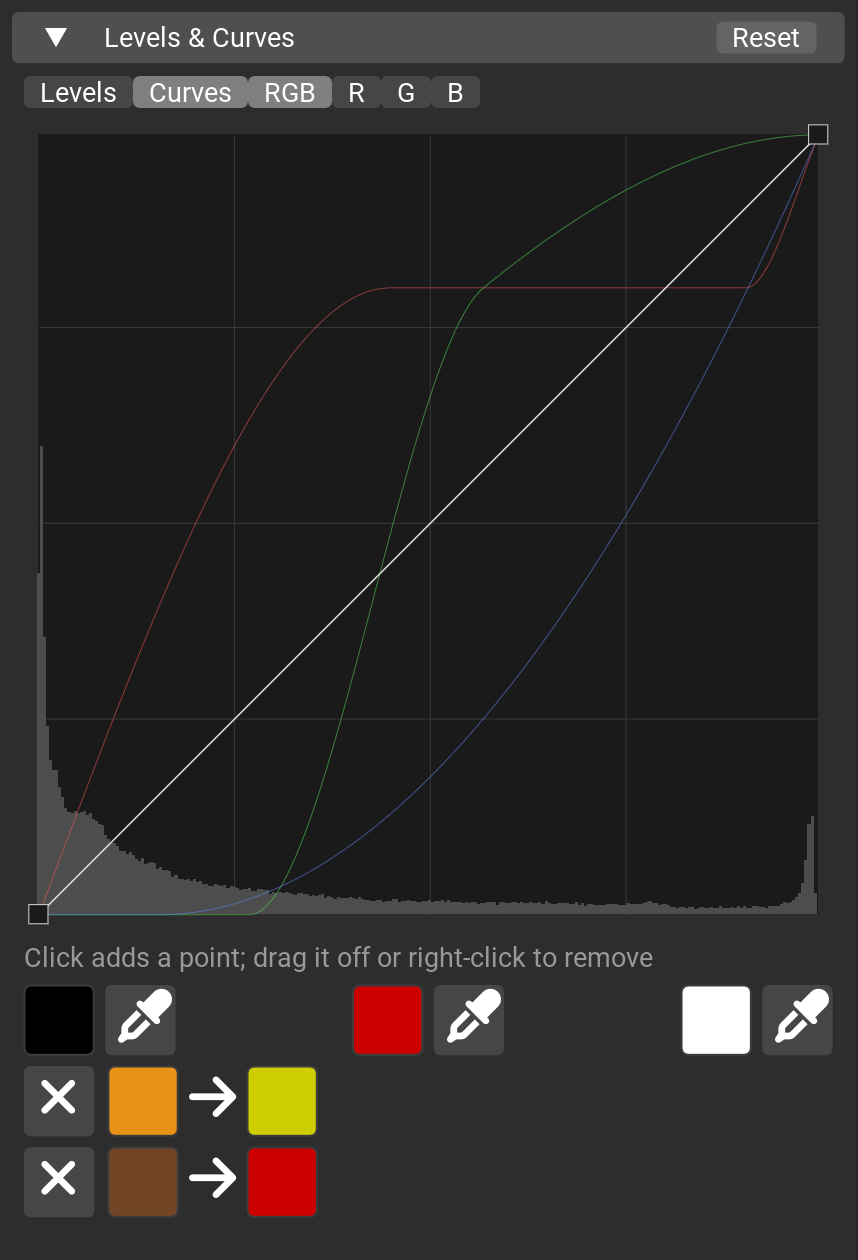
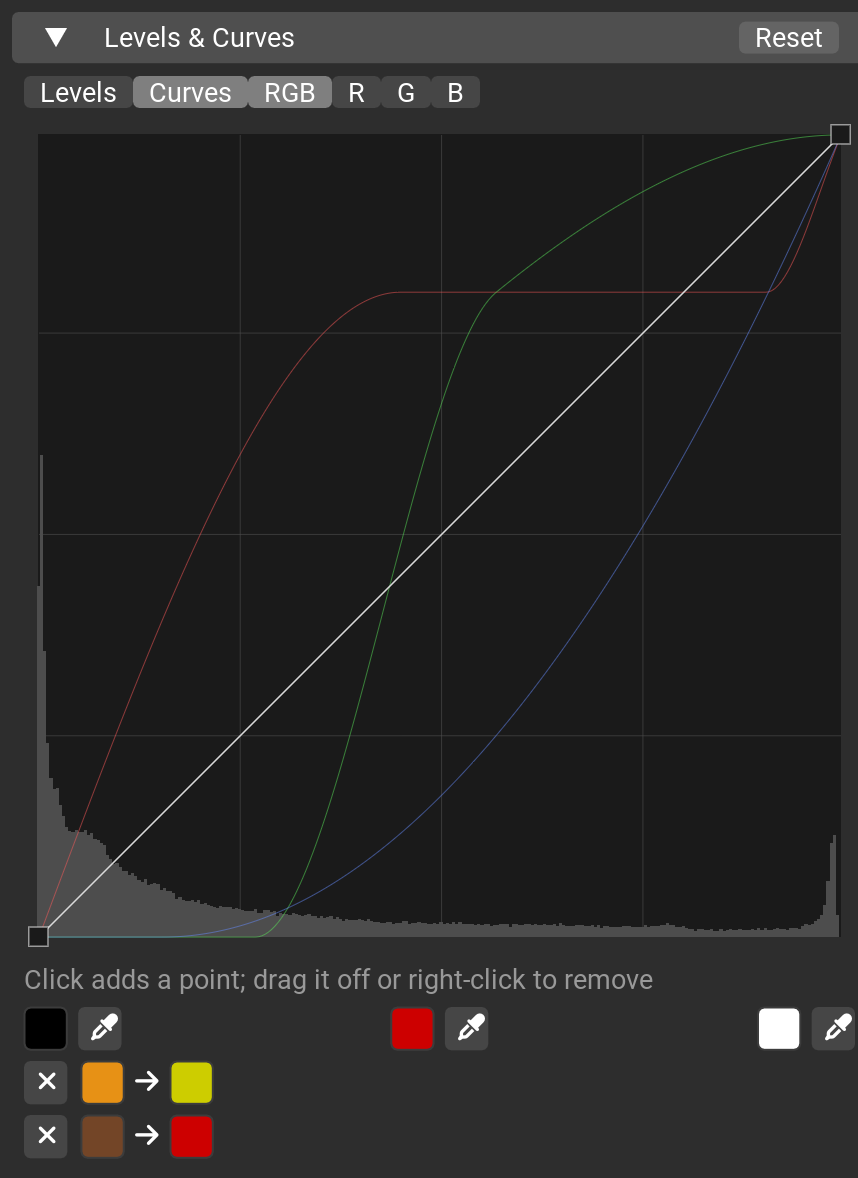
Eyedropper rows and style.font at their size on a scaled screen (#31)
imgui 1.92's push_font takes an unscaled size and applies the style's main and DPI scales to it; em_size has them in
it already, so at a DPI factor of 2 (a Windows screen at 200%, the docs' screenshots) the eyedropper rows came out at
twice their size. style.font_size(em) gives push_font's size; smaller(), tip() and style.font use it. The Levels &
Curves picture retaken.

Claude-Session: https://claude.ai/code/session_01LD28UwYSy5EQZZBPjBZYX9

diff --git a/src/dizher/ui/levels.py b/src/dizher/ui/levels.py
@@ -68,8 +68,8 @@ _full = []   # the font size outside smaller(), for tooltips inside it
 def smaller():
     """Items at SCALE: the font and the paddings and spacings, so frame-high swatches and buttons shrink along."""
     st = imgui.get_style()
-    _full.append(em_size(1.0))
-    imgui.push_font(None, em_size(SCALE))
+    _full.append(style.font_size(1.0))
+    imgui.push_font(None, style.font_size(SCALE))
     for var, v in ((imgui.StyleVar_.frame_padding, st.frame_padding), (imgui.StyleVar_.item_spacing, st.item_spacing),
                    (imgui.StyleVar_.item_inner_spacing, st.item_inner_spacing)):
         imgui.push_style_var(var, imgui.ImVec2(v.x * SCALE, v.y * SCALE))
@@ -84,7 +84,7 @@ def smaller():
 def tip(*lines: str) -> None:
     """The last item's tooltip, at full size inside smaller(), wrapping at TIP_WIDTH."""
     if imgui.begin_item_tooltip():
-        imgui.push_font(None, _full[-1] if _full else em_size(1.0))
+        imgui.push_font(None, _full[-1] if _full else style.font_size(1.0))
         imgui.push_text_wrap_pos(em_size(TIP_WIDTH))
         for line in lines:
             imgui.text(line)

diff --git a/src/mokit/ui/style.py b/src/mokit/ui/style.py
@@ -136,10 +136,17 @@ def _load_fonts() -> None:
         hello_imgui.load_font(FONT_ICONS, FONT_SIZE, hello_imgui.FontLoadingParams(merge_to_last_font=True))
 
 
+def font_size(size_em: float) -> float:
+    """size_em as push_font takes it, unscaled: em_size has the style's main and DPI scales in it, which push_font
+    applies again (a field twice its size on a screen at 200%)."""
+    st = imgui.get_style()
+    return em_size(size_em) / (st.font_scale_main * st.font_scale_dpi)
+
+
 @contextmanager
 def font(key: str, size_em: float = 1.0):
     """`with font("bold", 1.2): imgui.text(...)`. Unknown key or fonts not loaded yet: the current font."""
-    imgui.push_font(FONTS.get(key), em_size(size_em))
+    imgui.push_font(FONTS.get(key), font_size(size_em))
     try:
         yield
     finally:
